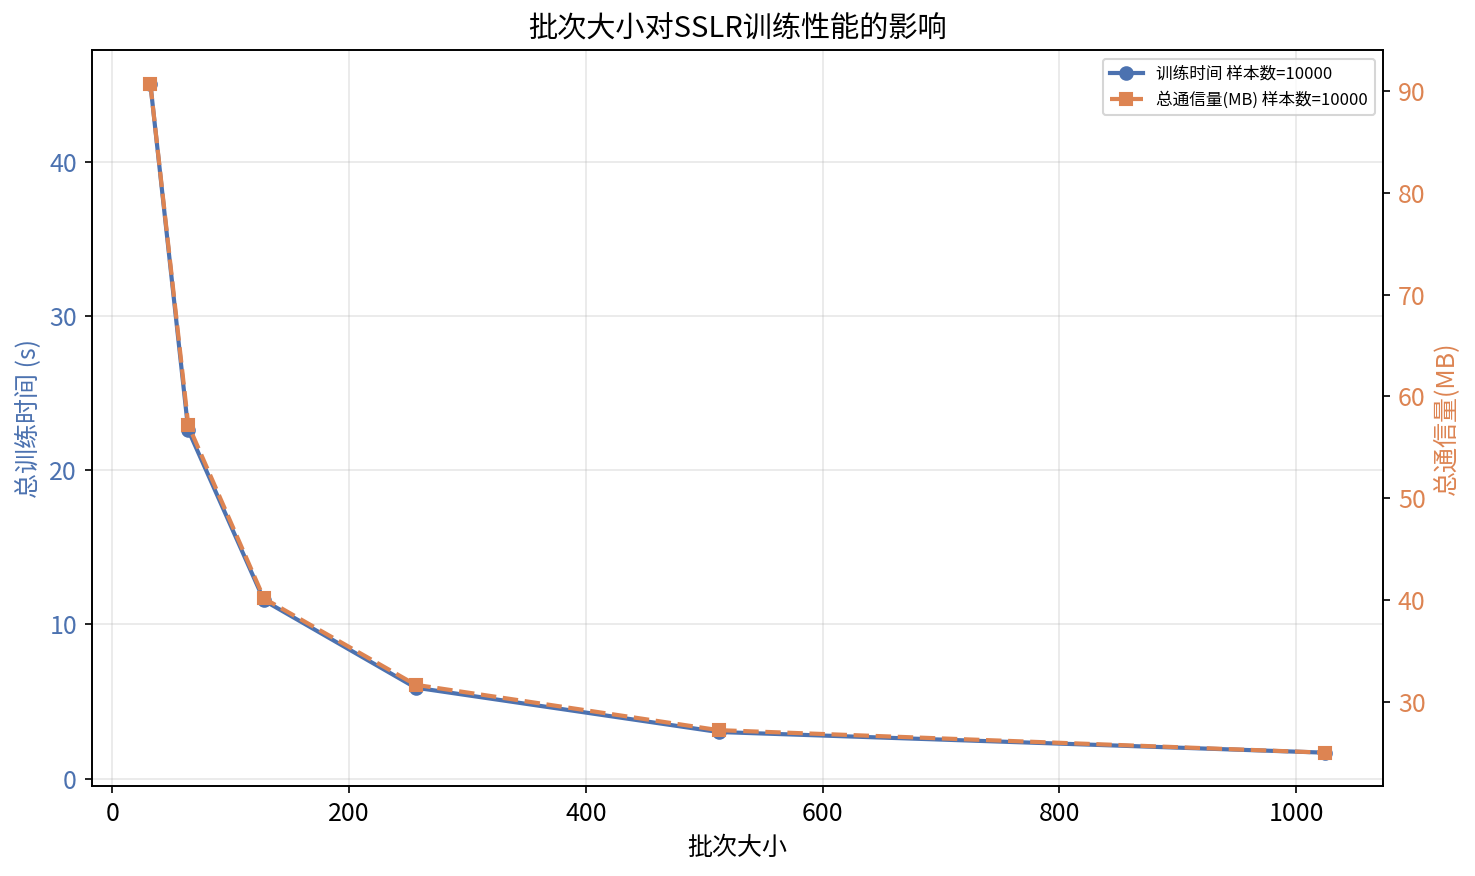
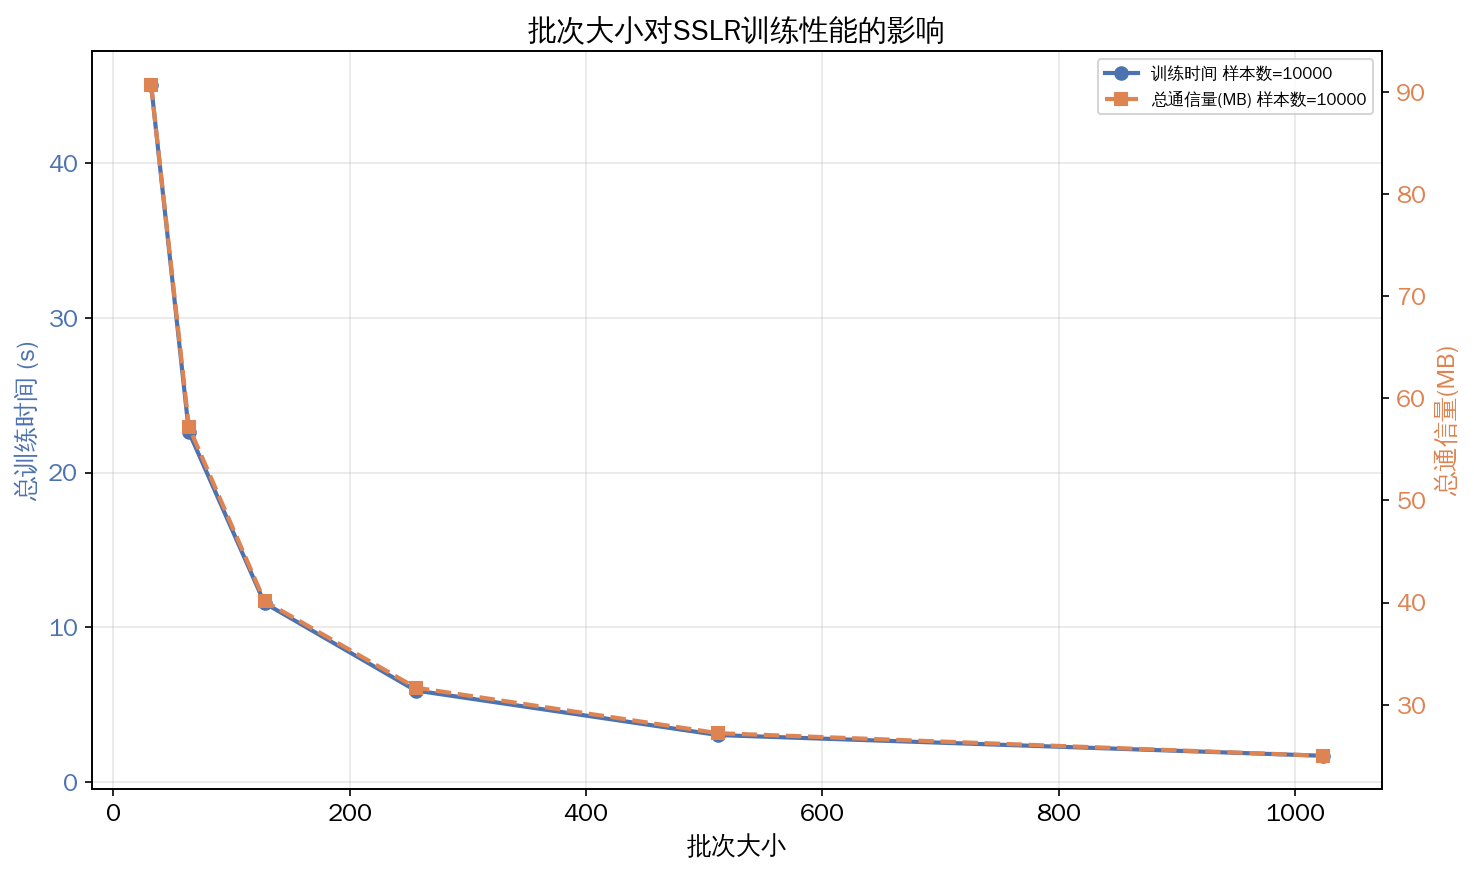
modified:   test_results/performance/batch_size_impact.png 	modified:   test_results/performance/lr_inference_latency.png 	modified:   test_results/performance/psi_network_impact_wan.png 	modified:   test_results/performance/psi_scalability.png 	modified:   test_results/performance/psi_stress.csv 	m

diff --git a/tests/plot_utils.py b/tests/plot_utils.py
@@ -10,7 +10,7 @@ matplotlib.use("Agg")  # non-interactive backend
 import matplotlib.font_manager as fm
 import matplotlib.pyplot as plt
 
-_CJK_FONT_PATH = "/usr/share/fonts/opentype/noto/NotoSansCJK-Regular.ttc"
+_CJK_FONT_PATH = "/usr/share/fonts/truetype/wqy/wqy-zenhei.ttc"
 if os.path.exists(_CJK_FONT_PATH):
     fm.fontManager.addfont(_CJK_FONT_PATH)
 
@@ -21,7 +21,7 @@ plt.rcParams.update({
     "figure.figsize": (10, 6),
 })
 if os.path.exists(_CJK_FONT_PATH):
-    plt.rcParams["font.sans-serif"] = ["Noto Sans CJK JP"] + plt.rcParams.get("font.sans-serif", [])
+    plt.rcParams["font.sans-serif"] = ["WenQuanYi Zen Hei"] + plt.rcParams.get("font.sans-serif", [])
 plt.rcParams["axes.unicode_minus"] = False
 
 def save_performance_table(records: list[dict], csv_path: str):
@@ -120,14 +120,14 @@ def plot_inference_latency(records: list[dict], png_path: str,
     fig, (ax_top, ax_bot) = plt.subplots(2, 1, figsize=(10, 10), sharex=True)
 
     # --- Top subplot: 总延迟 + 总通信量 ---
-    ax_top.set_ylabel("推理延迟 (s)", color=color1)
+    ax_top.set_ylabel("推理时间 (s)", color=color1)
     l1, = ax_top.plot(df["样本数量"], df["推理延迟(s)"], marker="o", color=color1,
                       linewidth=2, label="总延迟")
     ax_top.tick_params(axis="y", labelcolor=color1)
-    ax_top.set_title("推理延迟与通信量")
+    ax_top.set_title("推理时间与通信量")
     ax_top.grid(True, alpha=0.3)
 
-    top_lines, top_labels = [l1], ["总延迟"]
+    top_lines, top_labels = [l1], ["总时间"]
     if has_comm:
         ax_top2 = ax_top.twinx()
         ax_top2.set_ylabel(comm_key, color=color3)
@@ -140,11 +140,11 @@ def plot_inference_latency(records: list[dict], png_path: str,
 
     # --- Bottom subplot: 单样本延迟 ---
     ax_bot.set_xlabel("样本数量")
-    ax_bot.set_ylabel("单样本平均延迟 (ms)", color=color2)
+    ax_bot.set_ylabel("单样本平均推理时间 (ms)", color=color2)
     ax_bot.plot(df["样本数量"], df["单样本平均延迟(ms)"], marker="s", color=color2,
-                linewidth=2, label="单样本延迟")
+                linewidth=2, label="单样本推理时间")
     ax_bot.tick_params(axis="y", labelcolor=color2)
-    ax_bot.set_title("单样本平均推理延迟")
+    ax_bot.set_title("单样本平均推理时间")
     ax_bot.grid(True, alpha=0.3)
     ax_bot.legend(loc="upper right", fontsize=9)
 
@@ -155,7 +155,8 @@ def plot_inference_latency(records: list[dict], png_path: str,
 
 
 def plot_wan_network_impact(records: list[dict], title: str, png_path: str,
-                            y_key: str, comm_key: str = "总通信量(MB)"):
+                            y_key: str, comm_key: str = "总通信量(MB)",
+                            y_label: str | None = None):
     """Side-by-side subplots: left = bandwidth impact (fixed latency=0),
     right = latency impact (fixed bandwidth=baseline).
 
@@ -165,6 +166,7 @@ def plot_wan_network_impact(records: list[dict], title: str, png_path: str,
       - Bandwidth series has latency=0 with varying bandwidth.
       - Latency series has a fixed high bandwidth with varying latency.
     """
+    display_label = y_label if y_label is not None else y_key
     df = pd.DataFrame(records).sort_values(["延迟(ms)", "带宽限制(Mb/s)"])
 
     bw_df = df[df["延迟(ms)"] == 0].sort_values("带宽限制(Mb/s)")
@@ -175,7 +177,7 @@ def plot_wan_network_impact(records: list[dict], title: str, png_path: str,
 
     has_comm = comm_key in df.columns
 
-    fig, (ax_left, ax_right) = plt.subplots(1, 2, figsize=(14, 6))
+    fig, (ax_top, ax_bot) = plt.subplots(2, 1, figsize=(10, 10))
 
     all_y = pd.concat([bw_df[y_key], lat_df[y_key]])
     y_min, y_max = all_y.min(), all_y.max()
@@ -190,57 +192,57 @@ def plot_wan_network_impact(records: list[dict], title: str, png_path: str,
         c_lo = max(0, c_min - c_pad)
         c_hi = c_max + c_pad
 
-    # --- Left: bandwidth impact ---
+    # --- Top: bandwidth impact ---
     if len(bw_df) > 0:
-        ax_left.plot(bw_df["带宽限制(Mb/s)"], bw_df[y_key],
-                     marker="o", linewidth=2, color=color_time, label=y_key)
+        ax_top.plot(bw_df["带宽限制(Mb/s)"], bw_df[y_key],
+                     marker="o", linewidth=2, color=color_time, label=display_label)
         if has_comm:
-            ax_left2 = ax_left.twinx()
-            ax_left2.plot(bw_df["带宽限制(Mb/s)"], bw_df[comm_key],
+            ax_top2 = ax_top.twinx()
+            ax_top2.plot(bw_df["带宽限制(Mb/s)"], bw_df[comm_key],
                           marker="s", linewidth=2, linestyle="--",
                           color=color_comm, label=comm_key)
-            ax_left2.set_ylabel(comm_key, color=color_comm)
-            ax_left2.set_ylim(c_lo, c_hi)
-            ax_left2.tick_params(axis="y", labelcolor=color_comm)
-    ax_left.set_xlabel("带宽 (Mb/s)")
-    ax_left.set_ylabel(y_key, color=color_time)
-    ax_left.tick_params(axis="y", labelcolor=color_time)
-    ax_left.set_ylim(y_lo, y_hi)
-    ax_left.set_title("带宽影响 (延迟=0)")
-    ax_left.grid(True, alpha=0.3)
+            ax_top2.set_ylabel(comm_key, color=color_comm)
+            ax_top2.set_ylim(c_lo, c_hi)
+            ax_top2.tick_params(axis="y", labelcolor=color_comm)
+    ax_top.set_xlabel("带宽 (Mb/s)")
+    ax_top.set_ylabel(display_label, color=color_time)
+    ax_top.tick_params(axis="y", labelcolor=color_time)
+    ax_top.set_ylim(y_lo, y_hi)
+    ax_top.set_title("带宽影响 (延迟=0)")
+    ax_top.grid(True, alpha=0.3)
 
     if len(bw_df) > 0 and has_comm:
-        lines1, labels1 = ax_left.get_legend_handles_labels()
-        lines2, labels2 = ax_left2.get_legend_handles_labels()
-        ax_left.legend(lines1 + lines2, labels1 + labels2, loc="upper right", fontsize=9)
+        lines1, labels1 = ax_top.get_legend_handles_labels()
+        lines2, labels2 = ax_top2.get_legend_handles_labels()
+        ax_top.legend(lines1 + lines2, labels1 + labels2, loc="upper right", fontsize=9)
     elif len(bw_df) > 0:
-        ax_left.legend(loc="upper right", fontsize=9)
+        ax_top.legend(loc="upper right", fontsize=9)
 
-    # --- Right: latency impact ---
+    # --- Bottom: latency impact ---
     if len(lat_df) > 0:
-        ax_right.plot(lat_df["延迟(ms)"], lat_df[y_key],
-                      marker="o", linewidth=2, color=color_time, label=y_key)
+        ax_bot.plot(lat_df["延迟(ms)"], lat_df[y_key],
+                      marker="o", linewidth=2, color=color_time, label=display_label)
         if has_comm:
-            ax_right2 = ax_right.twinx()
-            ax_right2.plot(lat_df["延迟(ms)"], lat_df[comm_key],
+            ax_bot2 = ax_bot.twinx()
+            ax_bot2.plot(lat_df["延迟(ms)"], lat_df[comm_key],
                            marker="s", linewidth=2, linestyle="--",
                            color=color_comm, label=comm_key)
-            ax_right2.set_ylabel(comm_key, color=color_comm)
-            ax_right2.set_ylim(c_lo, c_hi)
-            ax_right2.tick_params(axis="y", labelcolor=color_comm)
-    ax_right.set_xlabel("延迟 (ms)")
-    ax_right.set_ylabel(y_key, color=color_time)
-    ax_right.tick_params(axis="y", labelcolor=color_time)
-    ax_right.set_ylim(y_lo, y_hi)
-    ax_right.set_title(f"延迟影响 (带宽={int(lat_df['带宽限制(Mb/s)'].iloc[0]) if len(lat_df) > 0 else '-'}Mb/s)")
-    ax_right.grid(True, alpha=0.3)
+            ax_bot2.set_ylabel(comm_key, color=color_comm)
+            ax_bot2.set_ylim(c_lo, c_hi)
+            ax_bot2.tick_params(axis="y", labelcolor=color_comm)
+    ax_bot.set_xlabel("延迟 (ms)")
+    ax_bot.set_ylabel(display_label, color=color_time)
+    ax_bot.tick_params(axis="y", labelcolor=color_time)
+    ax_bot.set_ylim(y_lo, y_hi)
+    ax_bot.set_title(f"延迟影响 (带宽={int(lat_df['带宽限制(Mb/s)'].iloc[0]) if len(lat_df) > 0 else '-'}Mb/s)")
+    ax_bot.grid(True, alpha=0.3)
 
     if len(lat_df) > 0 and has_comm:
-        lines1, labels1 = ax_right.get_legend_handles_labels()
-        lines2, labels2 = ax_right2.get_legend_handles_labels()
-        ax_right.legend(lines1 + lines2, labels1 + labels2, loc="upper left", fontsize=9)
+        lines1, labels1 = ax_bot.get_legend_handles_labels()
+        lines2, labels2 = ax_bot2.get_legend_handles_labels()
+        ax_bot.legend(lines1 + lines2, labels1 + labels2, loc="upper left", fontsize=9)
     elif len(lat_df) > 0:
-        ax_right.legend(loc="upper left", fontsize=9)
+        ax_bot.legend(loc="upper left", fontsize=9)
 
     fig.suptitle(title, fontsize=14, y=1.02)
     fig.tight_layout()

diff --git a/tests/redraw_plots.py b/tests/redraw_plots.py
@@ -76,32 +76,21 @@ def main():
                               os.path.join(RESULTS_DIR, "quantile_impact.png"),
                               x_key="分位点数量k", y_key="总训练时间(s)")
 
-    # 8. psi_stress
-    print("[8/11] PSI stress")
-    records = _read("psi_stress.csv")
-    if records:
-        plot_time_vs_samples(records, "PSI 压力测试: 对齐时间 vs 样本数量",
-                              os.path.join(RESULTS_DIR, "psi_stress.png"),
-                              x_key="样本数量", y_key="对齐时间(s)")
+    # 8. WAN inference impact
+    print("[8/11] WAN inference impact plots")
+    for model, csv_name, y_key, title in [
+        ("sslr", "sslr_inference_wan.csv", "推理延迟(s)", "WAN 条件对 SSLR 推理时间的影响"),
+        ("xgboost", "xgboost_inference_wan.csv", "推理延迟(s)", "WAN 条件对 SSXGBoost 推理时间的影响"),
+    ]:
+        records = _read(csv_name)
+        if records:
+            png_name = f"{model}_inference_wan.png"
+            plot_wan_network_impact(records, title,
+                                     os.path.join(RESULTS_DIR, png_name), y_key,
+                                     y_label="推理时间(s)")
 
-    # 9. sslr_stress
-    print("[9/11] SSLR stress")
-    records = _read("sslr_stress.csv")
-    if records:
-        plot_time_vs_samples(records, "SSLR 压力测试: 训练时间 vs 样本数量",
-                              os.path.join(RESULTS_DIR, "sslr_stress.png"),
-                              x_key="样本数量", y_key="总时间(s)")
-
-    # 10. xgboost_stress
-    print("[10/11] SSXGBoost stress")
-    records = _read("xgboost_stress.csv")
-    if records:
-        plot_time_vs_samples(records, "SSXGBoost 压力测试: 训练时间 vs 样本数量",
-                              os.path.join(RESULTS_DIR, "xgboost_stress.png"),
-                              x_key="样本数量", y_key="总时间(s)")
-
-    # 11. WAN network impact
-    print("[11/11] WAN network impact plots")
+    # 9. WAN network impact
+    print("[9/11] WAN network impact plots")
     for model, csv_name, y_key, title in [
         ("psi", "psi_network_impact_wan.csv", "对齐时间(s)", "WAN 条件对 PSI 对齐时间的影响"),
         ("sslr", "sslr_network_impact_wan.csv", "总时间(s)", "WAN 条件对 SSLR 训练时间的影响"),
